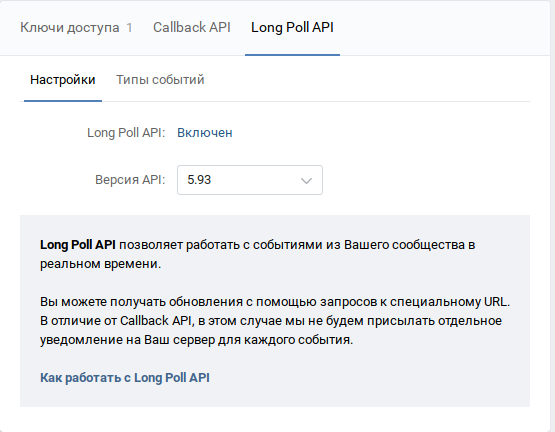
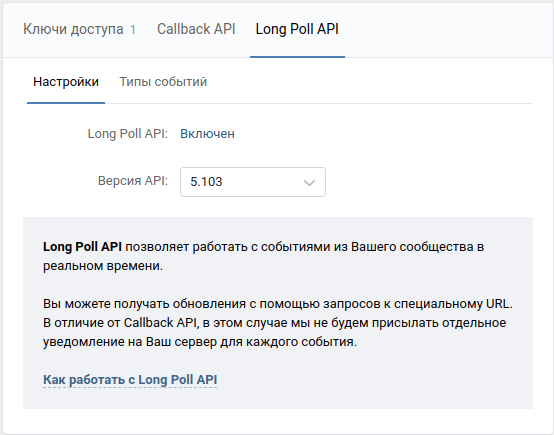
Update docs.

diff --git a/scheduler.py b/scheduler.py
@@ -51,12 +51,14 @@ class Schedule:
         gid (str): Идентификатор группы, для которой нужно получать расписание
 
     Example:
-        .. codeblock:: python
+        .. code-block:: python
+
             d = Date() # Новый объект конструктора дат
             sch = Schedule(d.today) # Новый объект конструктора расписания
             sch.get_raw() # Соединение с сервером, получение свежего
-            расписания на сегодня
-            text = sch.generate() # Генерация расписания в читаемом виде
+            # расписания на сегодня
+            if sch.is_exist():  # Проверка наличия расписания
+                text = sch.generate() # Генерация расписания в читаемом виде
     """
 
     def __init__(self, date: str, gid: str = "324"):

diff --git a/docs/manuals/adopt.rst b/docs/manuals/adopt.rst
@@ -58,7 +58,7 @@
 	Никому не передавайте этот токен! Он позволяет управлять вашим сообществом
 
 
-Перейдите во вкладку Long Poll API и включите его. Выберите версию API 5.93
+Перейдите во вкладку Long Poll API и включите его. Выберите версию API 5.103
 
 .. figure:: ../_static/images/adopt/vk/long_poll_api.png
        :align: center

diff --git a/docs/code/scheduler.rst b/docs/code/scheduler.rst
@@ -1,10 +1,10 @@
 Schedule
 =========
 
+.. module:: scheduler
 .. autoclass:: Date
     :members:
 
-.. module:: scheduler
 .. autoclass:: Schedule
     :members:
 
